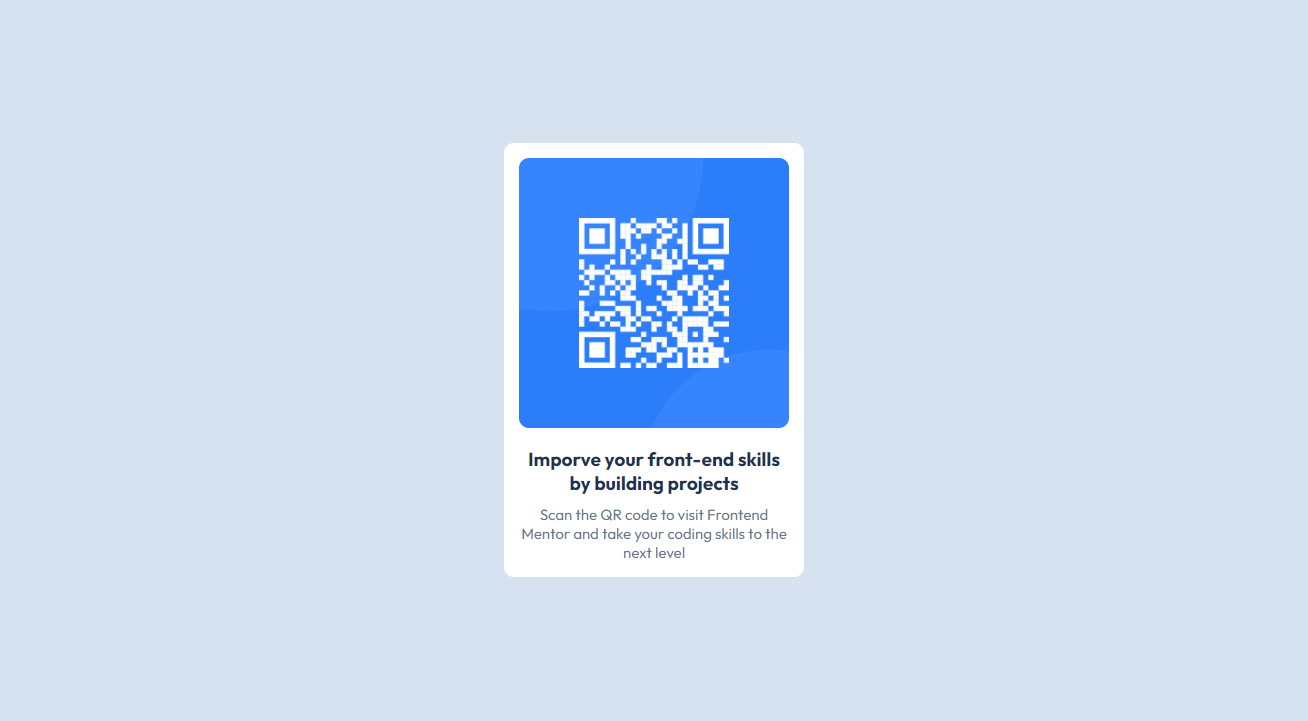
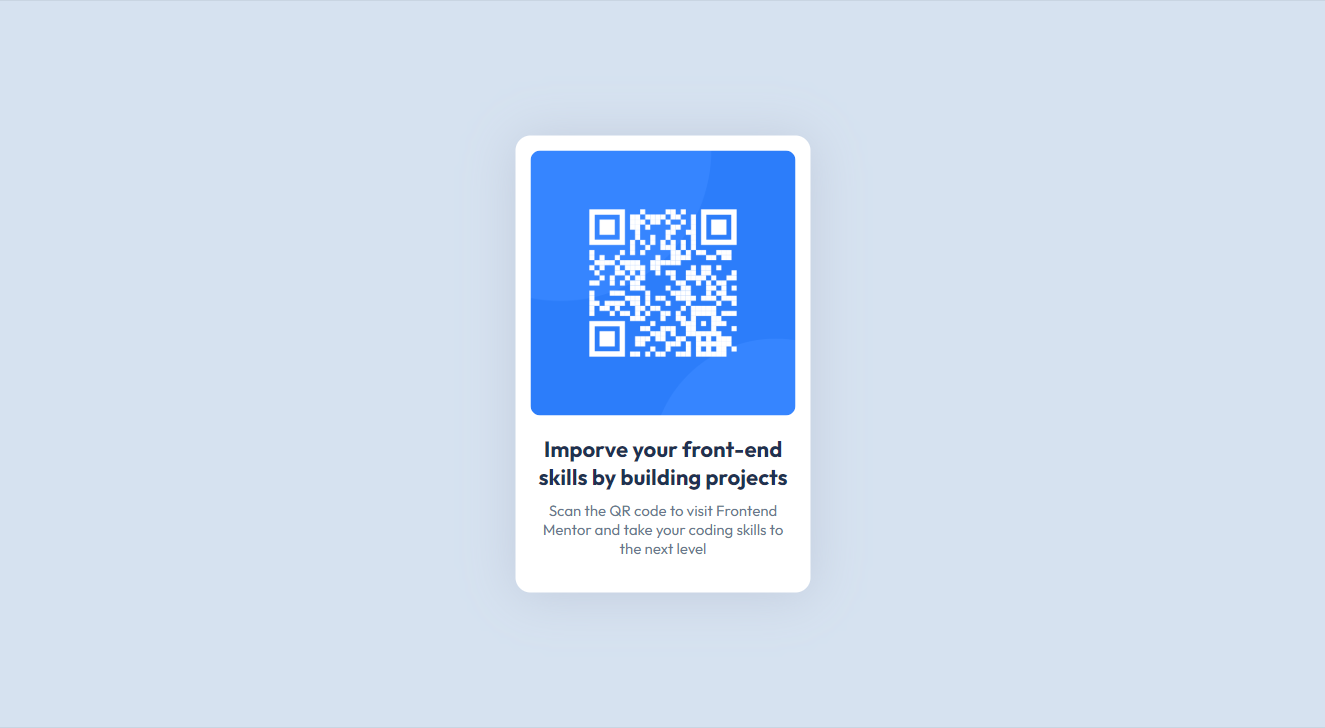
update

Changed region(s): [[0.367, 0.1831, 0.6116, 0.8239]]

diff --git a/style.css b/style.css
@@ -20,10 +20,10 @@ body {
 
 .container {
     background-color: var(--white);
-    width: 300px;
+    width: 295px;
     padding: 15px;
     margin: auto;
-    border-radius: 10px;
+    border-radius: 15px;
     position: absolute;
     transform: translate(-50%, -50%);
     top: 50%;
@@ -39,10 +39,11 @@ body {
 .text-container {
     text-align: center;
     margin-top: 15px;
+    margin-bottom: 20px;
 }
 
 .text-container h1 {
-    font-size: 19px;
+    font-size: 22px;
     font-weight: 700;
     color: var(--slate-900);
 }

diff --git a/index.html b/index.html
@@ -1,5 +1,5 @@
 <!DOCTYPE html>
-<html lang="en">
+<html lang="en" role="root">
   <head>
     <meta charset="UTF-8" />
     <meta name="viewport" content="width=device-width, initial-scale=1.0" />
@@ -17,7 +17,7 @@
     <link rel="stylesheet" href="style.css" />
   </head>
   <body>
-    <div class="container">
+    <div class="container" role="main-component">
       <div class="img-container">
         <img src="images/image-qr-code.png" alt="" />
       </div>
